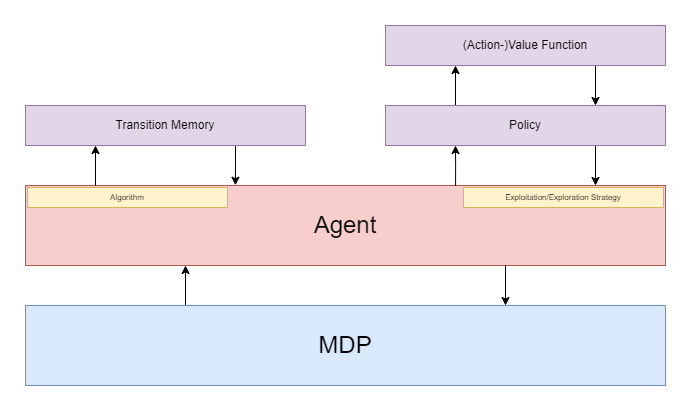
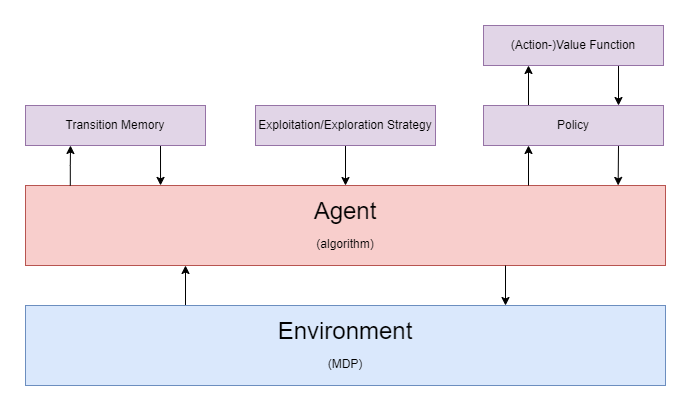
starting to add algorithm details

diff --git a/docs/0-lesson-notes/README.md b/docs/0-lesson-notes/README.md
@@ -9,7 +9,25 @@ Reinforcement learning is learning what to do (mapping situations to actions) so
 * Supervised learning: learning from a training set of labeled examples.
 * Unsupervised learning: Learning from finding hidden structures in unlabeled data.
 
-Reinforcement learning is the closest of all the machine learning types to the way humans and other animals learn and many of the core algorithms were originally inspired by biological learning systems.
+### Why Reinforcement Learning?
+
+Reinforcement learning is a fully-realized implementation of all components of STEM (i.e. science, technology, engineering, and mathematics). The enthusiasm for reinforcement learning is best depicted from the excerpt below [1].
+
+```
+One of the most exciting aspects of modern reinforcement learning is its substantive
+and fruitful interactions with other engineering and scientific disciplines. Reinforcement
+learning is part of a decades-long trend within artificial intelligence and machine learning
+toward greater integration with statistics, optimization, and other mathematical subjects.
+For example, the ability of some reinforcement learning methods to learn with parameterized approximators addresses the classical “curse of dimensionality” in operations research
+and control theory. More distinctively, reinforcement learning has also interacted strongly
+with psychology and neuroscience, with substantial benefits going both ways. Of all the
+forms of machine learning, reinforcement learning is the closest to the kind of learning
+that humans and other animals do, and many of the core algorithms of reinforcement
+learning were originally inspired by biological learning systems. Reinforcement learning
+has also given back, both through a psychological model of animal learning that better
+matches some of the empirical data, and through an influential model of parts of the
+brain’s reward system.
+```
 
 ## Problem Formulation
 
@@ -25,6 +43,8 @@ The agent-environment interface is a way to formalize the reinforcement learning
 
 ## Solution Formulation
 
+Building a solution to the reinforcement learning problem requires an understanding of the components required to teach the agent to achieve its goal.
+
 ![Code Structure](../code-structure.png)
 
 * Policy: defines how the agent should behave at a given time. Essentially, it is a mapping of states to actions.
@@ -35,11 +55,49 @@ The agent-environment interface is a way to formalize the reinforcement learning
 * Markov Decision Process (MDP): a way to model the sequential decision making process, which can be thought of as mathematical equation that the agent needs to solve.
 * Algorithm: determines _how_ the agent will learn how to solve the MDP (e.g. Monte-Carlo, DQN, Actor-Critic).
 
-TODO: define these things
+## Algorithms: Basic
 
-* bellman equation
+There are a number of algorithms that the agent can apply to solve the MDP, each with their own trade-offs (e.g. time to learn, robustness of learning).
+
+### Bellman Equation
+
+The Bellman equation is at the heart of reinforcement learning solutions. It is a dynmaic programming method defined by the immediate reward plus the discounted sum of all future rewards.
+
+![Bellman Optimality Equation for Q*](../q-star-bellman-optimality-equation.png)
+
+In reinforcement learning, we solve the MDP by finding the function (i.e. Q*) that gives us the correct value for each state-action pair. We calculate the values by using the _returns_ at every time-step.
+
+![Return](../return-gt.png)
+
+* Return: the total discounted reward from time-step _t_.
+* V𝜋: the value function defining the expected return at state _s_ when following policy 𝜋.
+* Q𝜋: the action-value function defining the expected return at state _s_ and taking action _a_ when following policy 𝜋.
+* V*: the optimal value function defining the expected return at state _s_.
+* Q*: the optimal action-value function defining the expected return at state _s_ and taking action _a_.
+
+### Monte-Carlo
+
+_TODO_
+
+### Q-Learning
+
+_TODO_
+
+## Algorithms: Practical
+
+### Q-Network
+
+_TODO_
+
+### Monte-Carlo Policy Gradient
+
+_TODO_
+
+### Actor-Critic
+
+_TODO_
 
 ## References
 
-* Richard S. Sutton and Andrew G. Barto. Reinforcement Learning: An Introduction. The MIT Press, 2018.
-* DeepMind x UCL | Introduction to Reinforcement Learning 2015. https://www.youtube.com/playlist?list=PLqYmG7hTraZDM-OYHWgPebj2MfCFzFObQ
+1. Richard S. Sutton and Andrew G. Barto. Reinforcement Learning: An Introduction. The MIT Press, 2018.
+2. DeepMind x UCL | Introduction to Reinforcement Learning 2015. https://www.youtube.com/playlist?list=PLqYmG7hTraZDM-OYHWgPebj2MfCFzFObQ
